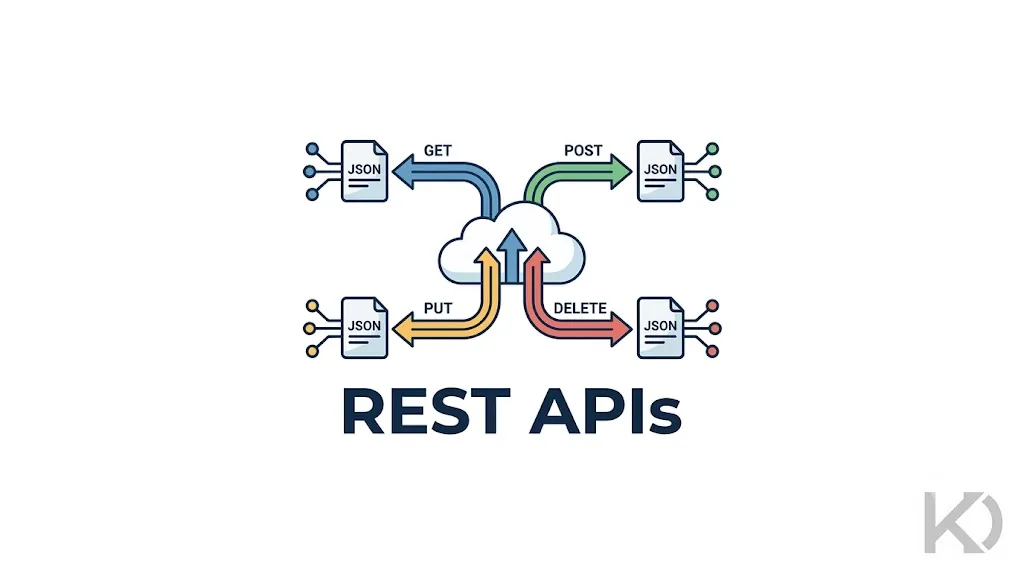
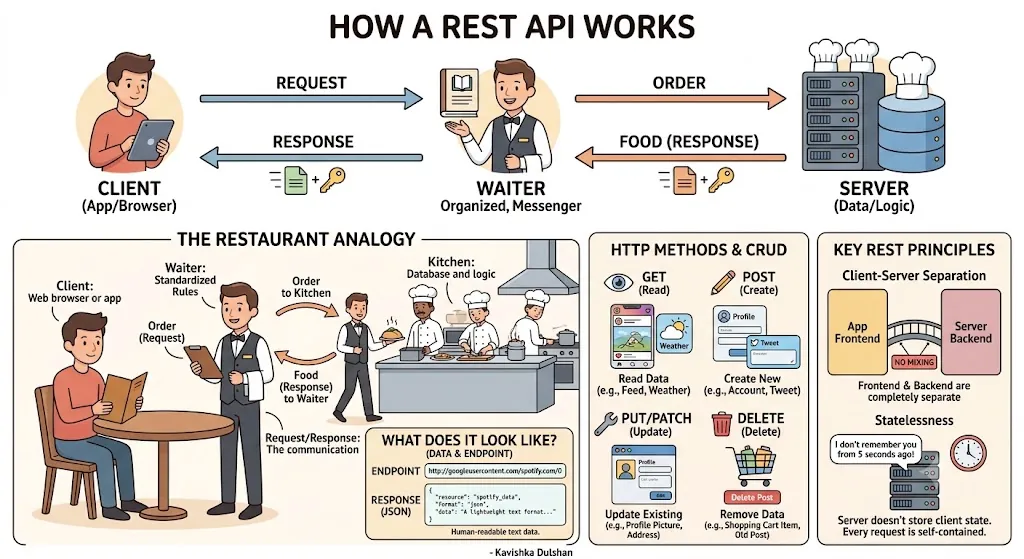
REST API post image added

diff --git a/src/posts/RESTAPI.md b/src/posts/RESTAPI.md
@@ -3,7 +3,7 @@ title: "Understanding REST APIs: The Messengers of the Internet"
 date: "2026-06-11"
 excerpt: "A beginner-friendly guide to REST APIs. Learn how they work, the essential HTTP methods, and the core principles of REST architecture."
 tags: ["api", "rest-api", "web-development", "backend", "software-architecture"]
-coverImage: "/images/blog/RESTAPI/image.webp"
+coverImage: "/images/blog/RESTAPI/0.webp"
 ---
 A REST API (Representational State Transfer Application Programming Interface) is a set of rules and conventions that allows different software applications to communicate with each other over the internet.
 
@@ -19,6 +19,8 @@ Imagine you are sitting at a restaurant.
 You can't just walk into the kitchen and grab your food. You need a **Waiter**, which is the **API**.
 
 You give your order (a request) to the waiter, the waiter takes it to the kitchen, and the kitchen gives the waiter your food to bring back to you (the response). A REST API just means the waiter is following a very specific, standardized set of rules to do this job.
+
+![REST APIs](/images/blog/RESTAPI/image.webp "REST APIs")
 
 ## How It Works: The HTTP Methods
 
